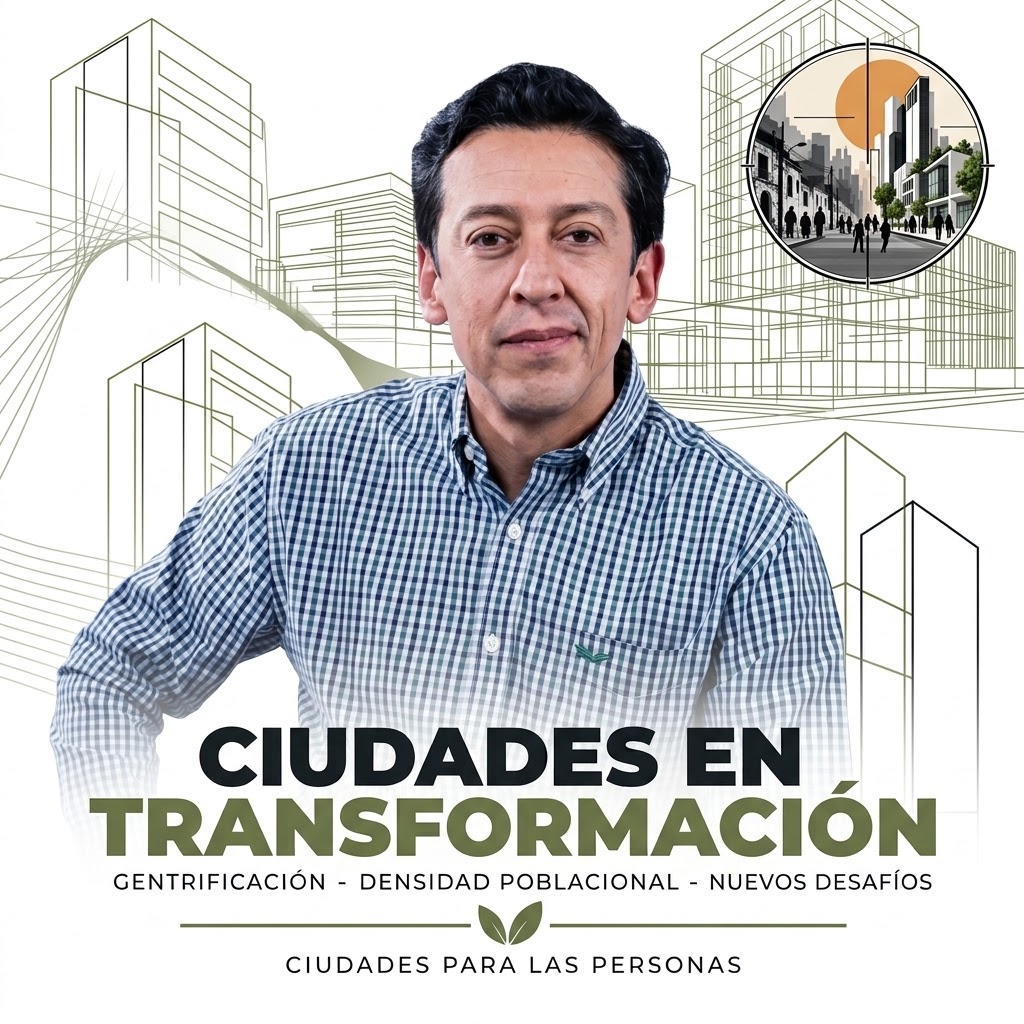
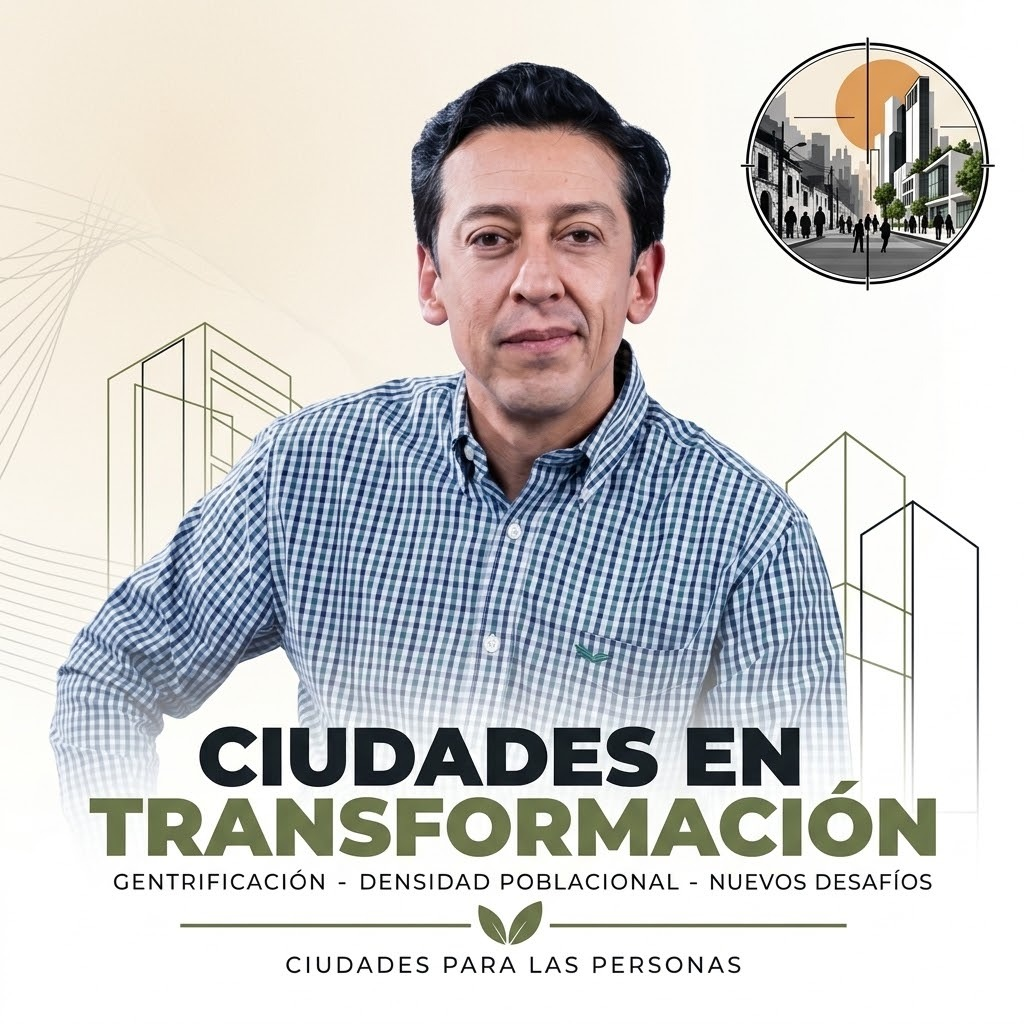
Add files via upload

Changed region(s): [[0.0, 0.0, 0.5, 0.4375], [0.5938, 0.0, 1.0, 0.4375]]

diff --git a/programa.html b/programa.html
@@ -22,47 +22,18 @@
    <a target="_blank" href="https://www.facebook.com/arqcoban">FACEBOOK</a>
    <a target="_blank" href="https://forms.gle/uryMzxMVGFTaWVqT7">REGISTRATE</a>
   </nav>
-
-<div class="grid-conferencistas">
-
-  <a class="tarjeta-conferencista" href="david-rosales.html">
-    <section>
-        <div class="centrar">
-            <img src="img/david-rosales.jpeg" alt="Arq. David Rosales">
-        </div>
-        <h3>Arq. David Rosales</h3>
-    </section>
-</a>
-
-<a class="tarjeta-conferencista" href="ruben-cifuentes.html">
-    <section>
-        <div class="centrar">
-            <img src="img/ruben-cifuentes.jpeg" alt="Arq. Ruben Cifuentes">
-        </div>
-        <h3>Arq. Ruben Cifuentes</h3>
-    </section>
-</a>
-
-  <a class="tarjeta-conferencista" href="fernando-cano.html">
-    <section>
-        <div class="centrar">
-            <img src="img/fernando-cano.jpeg" alt="Arq. Fernando Cano">
-        </div>
-        <h3>Arq. Fernando Cano</h3>
-    </section>
-</a>
-
-  <a class="tarjeta-conferencista" href="nombre-pendiente.html">
-    <section>
-        <div class="centrar">
-            <img src="img/perfil.jpg" alt="Nombre Pendiente">
-        </div>
-        <h3>Nombre pendiente</h3>
-    </section>
-</a>
-
+  <section>
+<h1>PROGRAMA</h1>
+<h2>MATUTINO</h2>
+<div class="centrar">
+<img src="img/programa1.jpg" alt="Gentrificación">
 </div>
 
+<h2>VESPERTINO</h2>
+<div class="centrar">
+<img src="img/programa2.png" alt="Gentrificación">
+</div>
+</section>
 <footer>
     <p class="institucion">
     Facultad de Arquitectura<br>
@@ -79,5 +50,5 @@
         © 2026 · Todos los derechos reservados
     </p>
 </footer> 
- </body>
+</body>
 </html>

diff --git a/conferencias.html b/conferencias.html
@@ -16,6 +16,7 @@
 </header>
   <nav>
    <a href="index.html">INICIO</a>
+   <a href="programa.html">PROGRAMA</a>
    <a href="conferencias.html">CONFERENCIAS</a>
    <a href="conferencistas.html">CONFERENCISTAS</a>
    <a target="_blank" href="https://www.facebook.com/arqcoban">FACEBOOK</a>

diff --git a/index.html b/index.html
@@ -16,6 +16,7 @@
 </header>
   <nav>
    <a href="index.html">INICIO</a>
+   <a href="programa.html">PROGRAMA</a>
    <a href="conferencias.html">CONFERENCIAS</a>
    <a href="conferencistas.html">CONFERENCISTAS</a>
    <a target="_blank" href="https://www.facebook.com/arqcoban">FACEBOOK</a>

diff --git a/david-rosales.html b/david-rosales.html
@@ -24,6 +24,7 @@
 
   <nav>
    <a href="index.html">INICIO</a>
+   <a href="programa.html">PROGRAMA</a>
    <a href="conferencias.html">CONFERENCIAS</a>
    <a href="conferencistas.html">CONFERENCISTAS</a>
    <a target="_blank" href="https://www.facebook.com/arqcoban">FACEBOOK</a>

diff --git a/fernando-cano.html b/fernando-cano.html
@@ -24,6 +24,7 @@
 
   <nav>
    <a href="index.html">INICIO</a>
+   <a href="programa.html">PROGRAMA</a>
    <a href="conferencias.html">CONFERENCIAS</a>
    <a href="conferencistas.html">CONFERENCISTAS</a>
    <a target="_blank" href="https://www.facebook.com/arqcoban">FACEBOOK</a>

diff --git a/ruben-cifuentes.html b/ruben-cifuentes.html
@@ -24,6 +24,7 @@
 
   <nav>
    <a href="index.html">INICIO</a>
+   <a href="programa.html">PROGRAMA</a>
    <a href="conferencias.html">CONFERENCIAS</a>
    <a href="conferencistas.html">CONFERENCISTAS</a>
    <a target="_blank" href="https://www.facebook.com/arqcoban">FACEBOOK</a>
